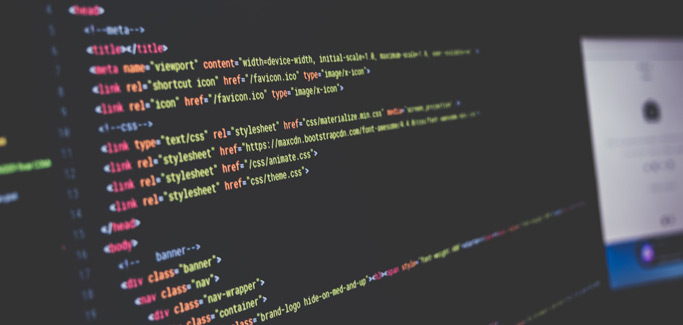
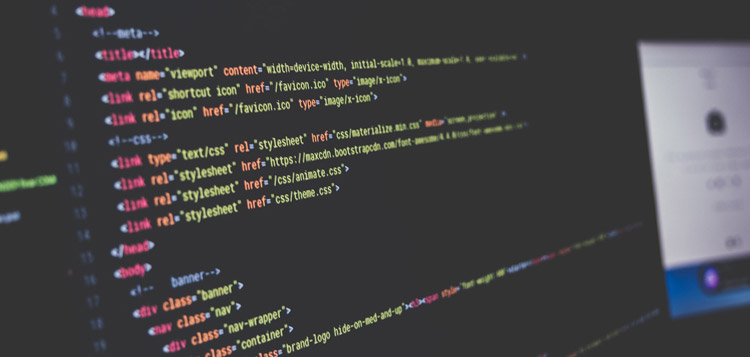
Optimize images, add polyfill and tweak the responsive

diff --git a/js/picturefill.min.js b/js/picturefill.min.js
@@ -1,0 +1,5 @@
+/*! picturefill - v3.0.2 - 2016-02-12
+ * https://scottjehl.github.io/picturefill/
+ * Copyright (c) 2016 https://github.com/scottjehl/picturefill/blob/master/Authors.txt; Licensed MIT
+ */
[1 lines of base64/hex data omitted]

diff --git a/index.html b/index.html
@@ -4,14 +4,26 @@
 	<meta charset="utf-8">
 	<meta http-equiv="X-UA-Compatible" content="IE=edge">
 	<meta name="viewport" content="width=device-width, initial-scale=1">
-	<title>Gregory Mendoza - Front-End Web Developer</title>
-	<link href="https://fonts.googleapis.com/css?family=Josefin+Sans:100,300,400,700" rel="stylesheet"> 
+	<title>Gregory Mendoza - Front-End Developer</title>
+
+	<!-- Font -->
+	<link href="https://fonts.googleapis.com/css?family=Josefin+Sans:100,300,400,700" rel="stylesheet">
+
+	<!-- CSS --> 
 	<link rel="stylesheet" href="css/bootstrap.min.css">
   	<link rel="stylesheet" href="css/styles.css">
+
+  	<!--Picturefill Polyfill -->
+  	<script>
+   		document.createElement( "picture" );
+  	</script>
+  	<script src="js/picturefill.min.js" async></script>
 </head>
 <body>
 	<div class="container">
-		<header class="row"> <!-- Header Begin --> 
+
+		<!-- Header --> 
+		<header class="row"> 
 			<div class="col-xs-12 col-sm-3">
 				<img src="img/portfolio-logo.png" class="img-responsive img-circle logo" alt="Portfolio's Logo">
 			</div>
@@ -19,49 +31,69 @@
 				<h1 class="main-title-name">Gregory Mendoza</h1>
 				<h3 class="main-title-job">Front-End Developer</h3>
 			</div>
-		</header> <!-- Header End -->
+		</header> 
 
-		<div class="row">
+		<!-- Line Break -->
+		<div class="row"> 
 			<div class="col-xs-12">
 				<hr>
 			</div>
 		</div>
 
-		<section class="row"> <!-- Main Image Begin -->
+		<!-- Presentation Image -->
+		<div class="row">
 			<div class="col-xs-12">
-				<img src="img/computer-default.jpg"
-					 srcset="img/computer-xs.jpg 342w, img/computer-sm.jpg 683w, img/computer-md.jpg 1024w, img/computer-default.jpg 1366w"
-					 sizes="100vw"
-					 alt="Computer and HTML Code"
-					 class="img-responsive">
+				<figure>
+					<picture>
+						<source media="(min-width: 992px)" srcset="img/computer-md.jpg 1024w, img/computer-lg.jpg 1366w" sizes="100vw">
+						<source media="(min-width: 500px)" srcset="img/computer-sm.jpg">
+						<img src="img/computer-xs.jpg" class="img-responsive" alt="Computer and Code">
+					</picture>
+				</figure>
 			</div>
-		</section> <!-- Main Image End -->
+		</div>
 
-	
-		<div class="row"> <!-- Projects Begin -->
+		<!-- Projects -->
+		<article class="row"> 
 			<div class="col-xs-12">
 				<h2 class="featured-heading">Featured Work</h2>	
 			</div>
-			<article class="col-xs-12 col-sm-4 project text-center">
-				<img src="img/project1.jpg" class="img-responsive" alt="Placeholder 1 Image">
+			<section class="col-xs-12 col-sm-4 project text-center">
+				<figure>
+					<picture>
+						<source media="(min-width: 500px)" srcset="img/project1-sm.jpg">
+						<img src="img/project1-xs.jpg" class="img-responsive" alt="Project 1 Picture">
+					</picture>
+				</figure>
 				<h3 class="project-name text-uppercase">Project 1</h3>
 				<a class="project-link" href="#">Link to Project</a>
-			</article>
-			<article class="col-xs-12 col-sm-4 project text-center">
-				<img src="img/project2.jpg" class="img-responsive" alt="Placeholder 2 Image">
+			</section>
+			<section class="col-xs-12 col-sm-4 project text-center">
+				<figure>
+					<picture>
+						<source media="(min-width: 500px)" srcset="img/project2-sm.jpg">
+						<img src="img/project2-xs.jpg" class="img-responsive" alt="Project 2 Picture">
+					</picture>
+				</figure>
 				<h3 class="project-name text-uppercase">Project 2</h3>
 				<a class="project-link" href="#">Link to Project</a>
-			</article>
-			<article class="col-xs-12 col-sm-4 project text-center">
-				<img src="img/project3.jpg" class="img-responsive" alt="Project 3 Image">
+			</section>
+			<section class="col-xs-12 col-sm-4 project text-center">
+				<figure>
+					<picture>
+						<source media="(min-width: 500px)" srcset="img/project3-sm.jpg">
+						<img src="img/project3-xs.jpg" class="img-responsive" alt="Project 3 Picture">
+					</picture>
+				</figure>
 				<h3 class="project-name text-uppercase">Project 3</h3>
 				<a class="project-link" href="#">Link to Project</a>
-			</article>
-		</div><!-- Projects End -->
+			</section>
+		</article>
 
-		<footer class="row footer text-center"> <!-- Footer Begin -->
+		<!-- Footer -->
+		<footer class="row footer text-center">
 			<p>© 2016 All Rights Reserved.</p>
-		</footer> <!-- Footer End -->
+		</footer>
 	</div>
 </body>
 </html>

diff --git a/css/styles.css b/css/styles.css
@@ -1,4 +1,4 @@
-/****** GENERAL ******/
+/* General Styles */
 body {
 	font: 14px "Josefin Sans", sans-serif;
 	color: #777;
@@ -9,7 +9,8 @@ hr {
 	border: 2px solid #bbb;
 }
 
-/****** HEADER ******/
+
+/* Header */
 .logo {
 	margin: 0 auto;
 }
@@ -29,10 +30,12 @@ hr {
 	margin: 5px 0;
 }
 
-/****** PROJECTS ******/
+
+/* Projects */
 .featured-heading {
 	font-size: 36px;
 	color: #aaa;
+	margin: 30px 0 20px;
 }
 
 .project {
@@ -48,7 +51,8 @@ hr {
 	font-size: 16px;
 }
 
-/****** FOOTER ******/
+
+/* Footer */
 .footer:before {
 	content: '';
     display: block;
@@ -58,7 +62,8 @@ hr {
     margin: 40px auto 10px;
 }
 
-/****** MEDIA QUERIES ******/
+
+/* Media Queries */
 @media screen and (max-width: 610px) {
 	.main-title-name {
 		font-size: 36px;
@@ -72,6 +77,10 @@ hr {
 
 	.main-title {
 		text-align: right;
+	}
+
+	.featured-heading {
+		margin: 20px 0 10px;
 	}
 
 	.project {
